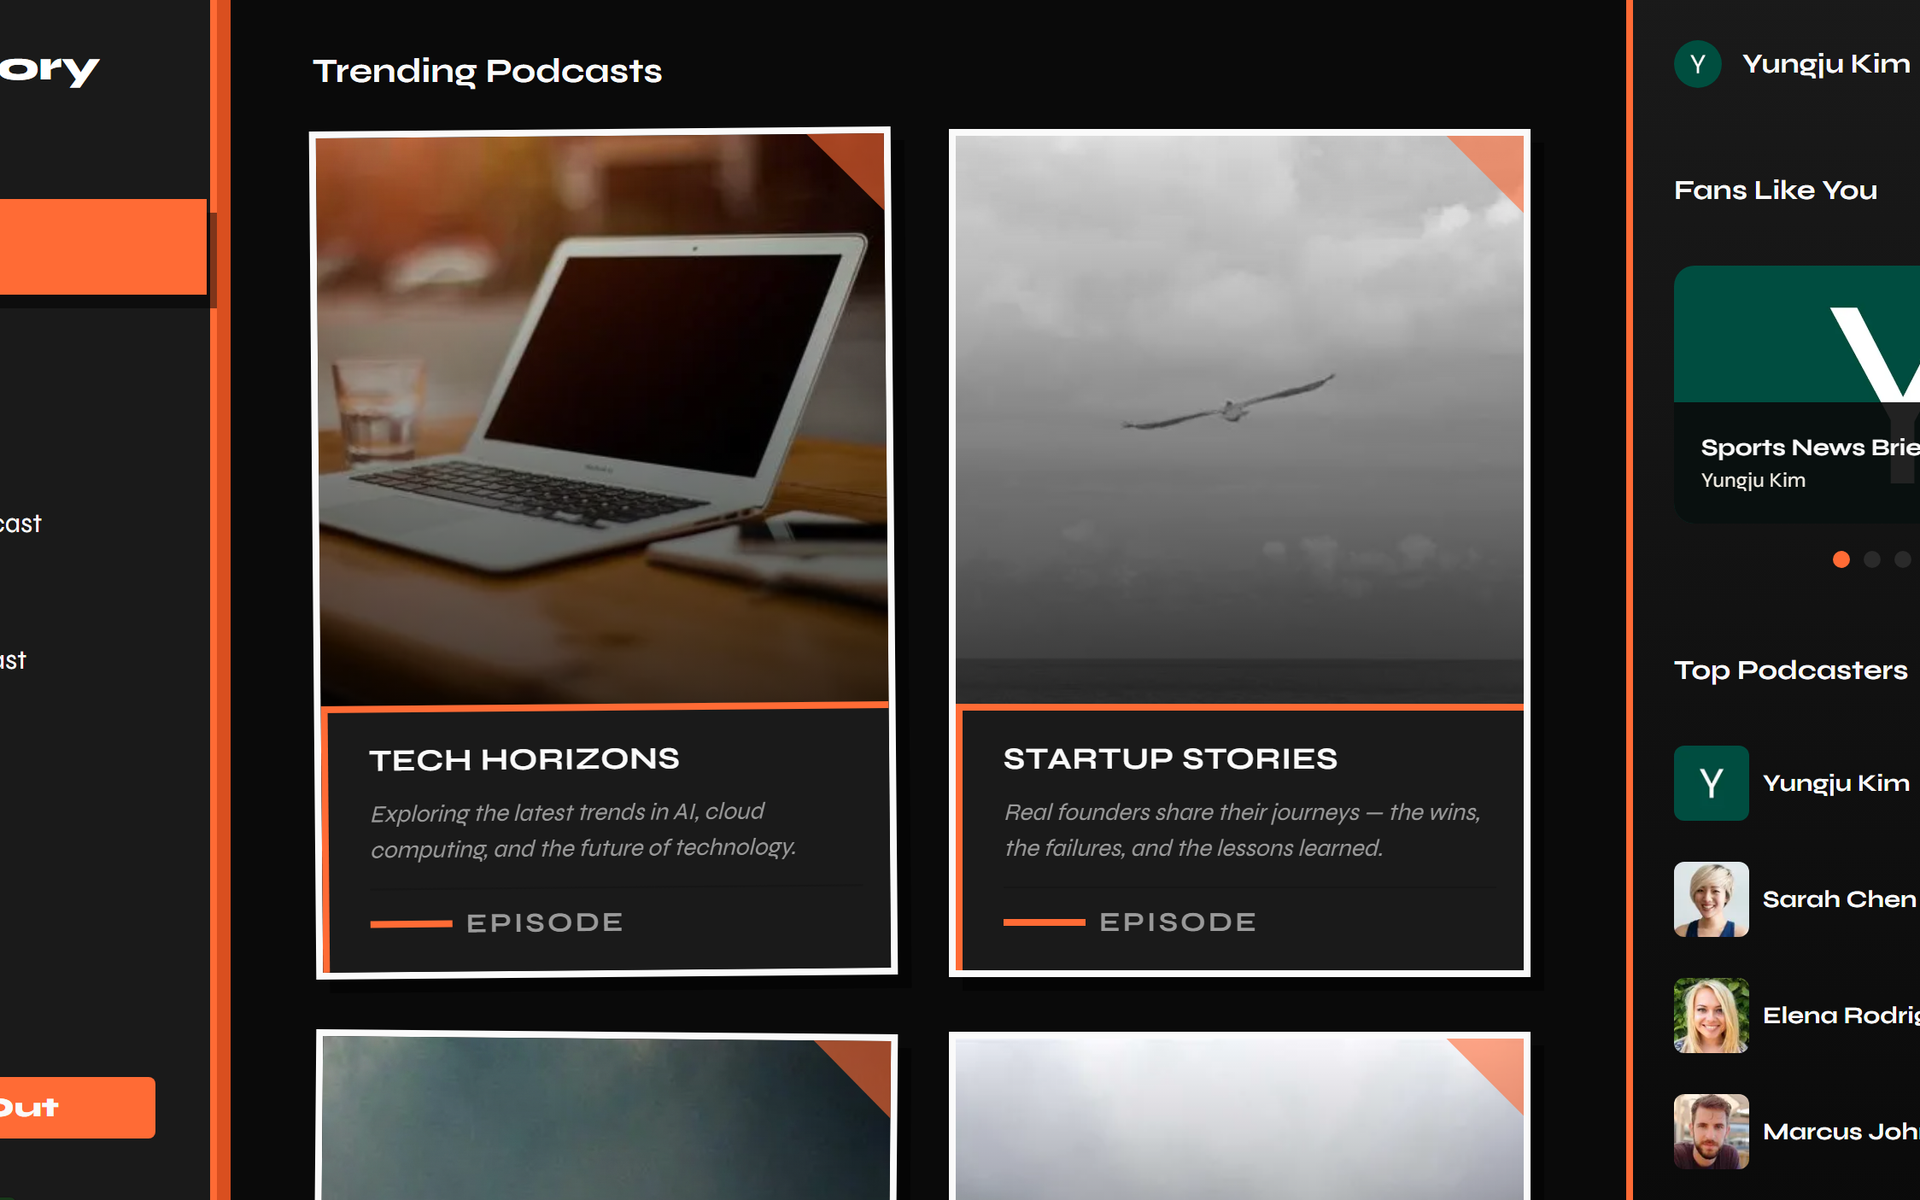
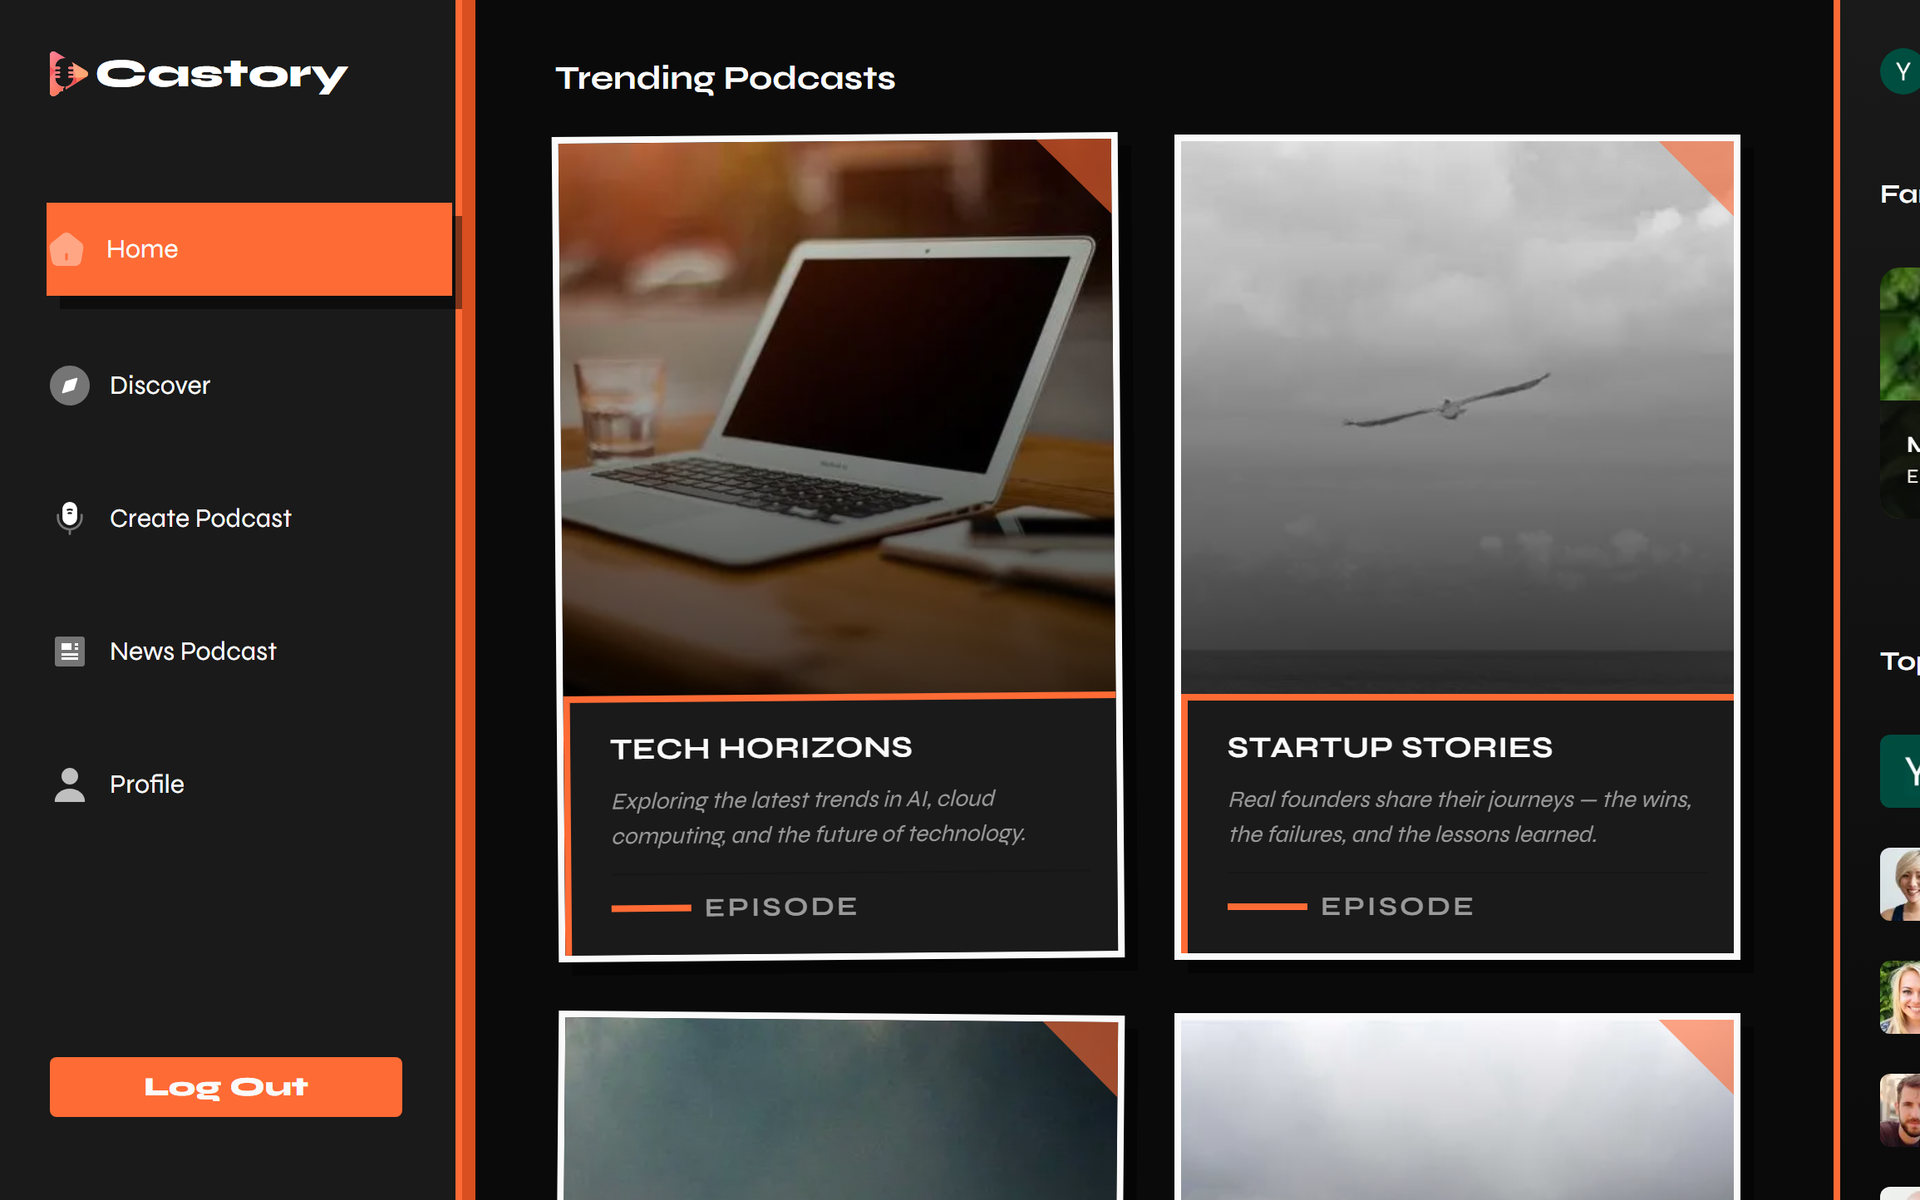
feat: update project preview images and switch DG preview to PNG
Replace project preview screenshots with optimized versions and change
DevG preview from SVG to PNG.

diff --git a/src/components/ProjectCard.tsx b/src/components/ProjectCard.tsx
@@ -178,8 +178,8 @@ export default function ProjectCard({
                   <div className="flex justify-center pb-2">
                     <div className="h-1.5 w-1.5 rounded-full bg-[#555]" />
                   </div>
-                  {/* Screen — locked to 16:10 laptop ratio */}
-                  <div className="relative overflow-hidden rounded-[4px] bg-black aspect-[16/10]">
+                  {/* Screen — 2:1 to match screenshot aspect ratios */}
+                  <div className="relative overflow-hidden rounded-[4px] bg-black aspect-[2/1]">
                     <Image
                       src={project.previewSrc}
                       alt={`${project.title} preview`}

diff --git a/src/data/projects.ts b/src/data/projects.ts
@@ -75,7 +75,7 @@ export const projects: Project[] = [
     liveUrl: "https://dg-nus.vercel.app/#/about",
     githubUrl: "https://github.com/kimyungju/devg-website",
     logoSrc: "/projects/devg-logo.svg",
-    previewSrc: "/projects/devg-preview.svg",
+    previewSrc: "/projects/devg-preview.png",
     readTime: "3 min read",
     publishDate: "19 February 2026",
   },
